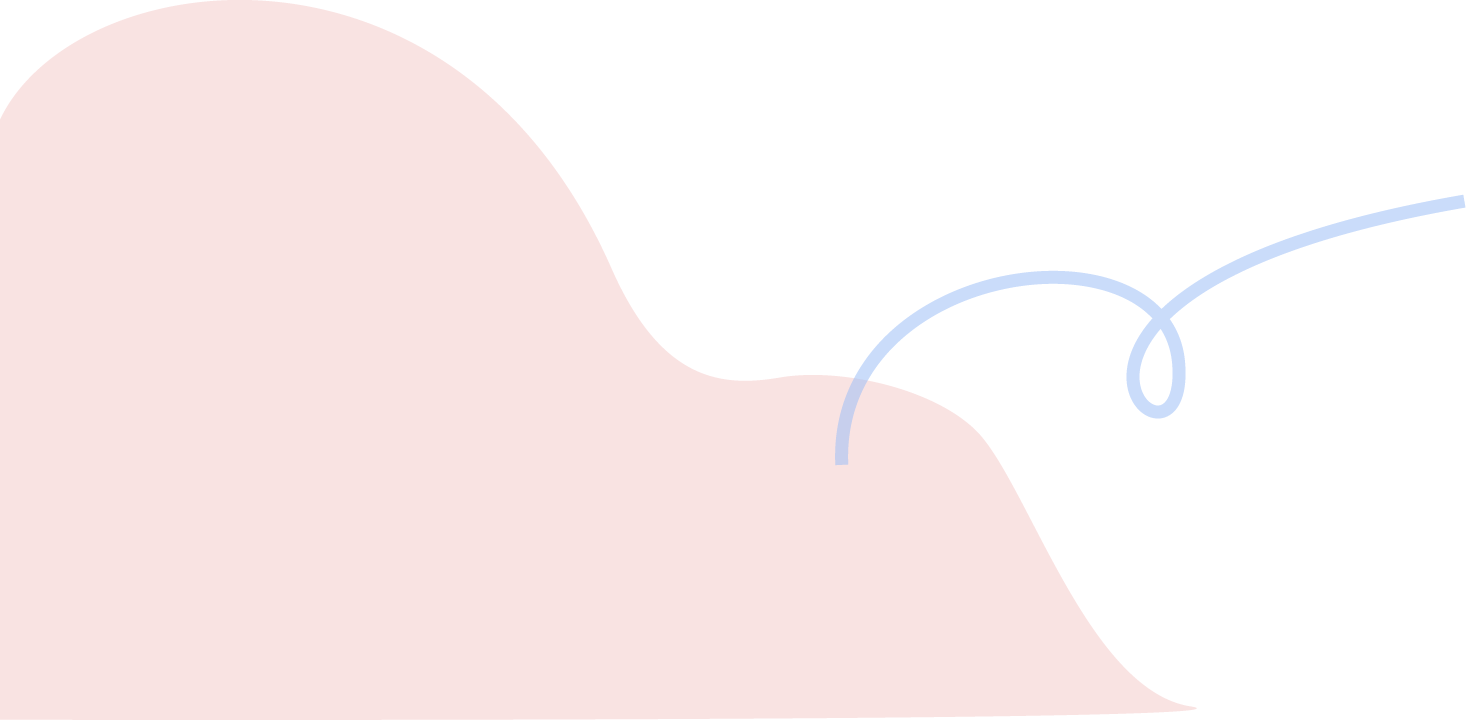
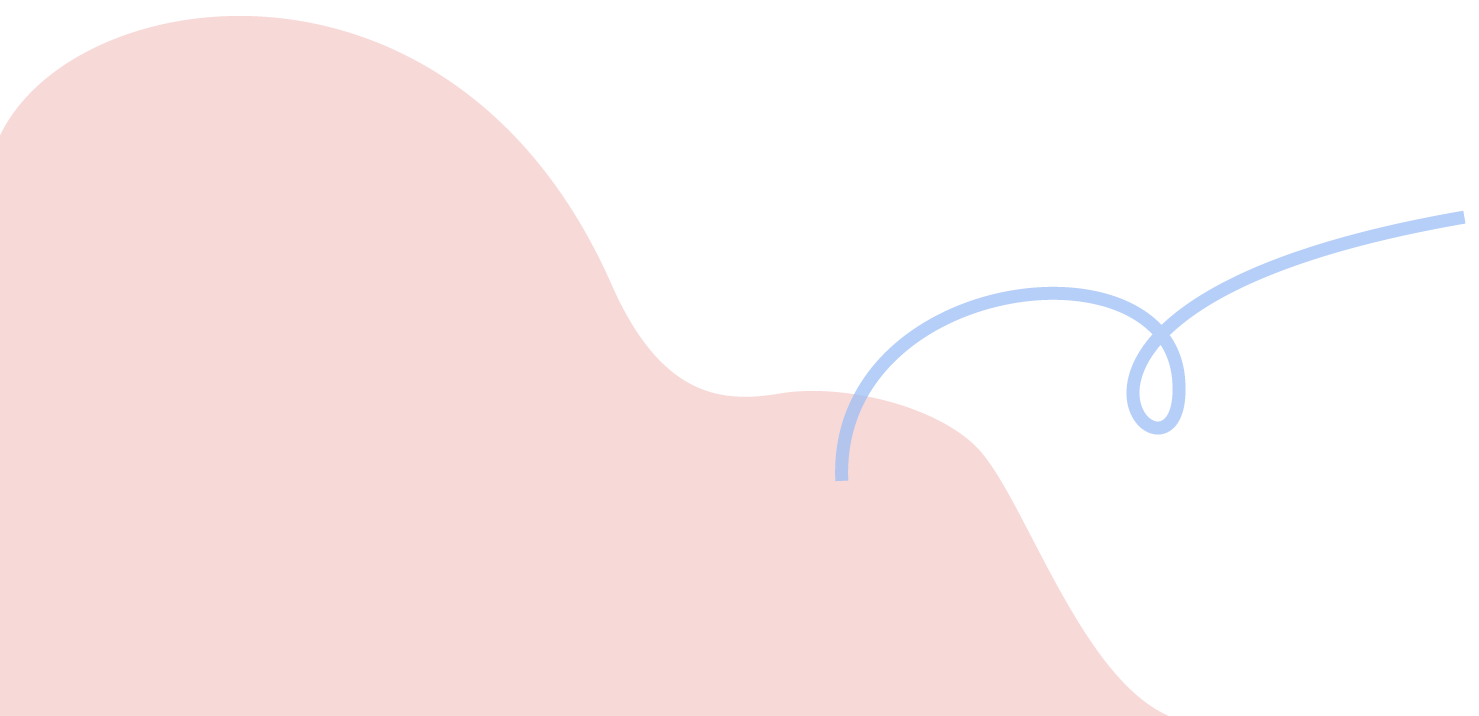
add loading and change image bottom

diff --git a/src/pages/vets/VetsList.js b/src/pages/vets/VetsList.js
@@ -5,9 +5,11 @@ import api from "../../apis/api";
 import { useEffect, useState } from "react";
 import Navbar from "../../components/navbar/Navbar";
 import { useParams } from "react-router-dom";
+import Loading from "../../components/Loading";
 
 function VetsList() {
   const [userData, setUserData] = useState([]);
+  const [loading, setLoading] = useState(true);
 
   const params = useParams();
 
@@ -15,13 +17,13 @@ function VetsList() {
     async function fetchUser() {
       try {
         const response = await api.get(`/vet/list`);
- 
+
         const userDataFilter = response.data.filter((currentVet) => {
           return currentVet.specialties.includes(params.specialties);
-        })
+        });
 
-        setUserData([ ...userDataFilter ]);
-        
+        setUserData([...userDataFilter]);
+        setTimeout(() => setLoading(false), 1000);
       } catch (err) {
         console.error(err);
       }
@@ -29,61 +31,72 @@ function VetsList() {
     fetchUser();
   }, [params.specialties]);
 
-
-
   return (
-    <div className="pb-20">
-      <section className="mt-4 flex items-center justify-between mr-8 ml-8">
-        <h1>Veterinários</h1>
-      </section>
+    <>
+      {loading ? (
+        <Loading />
+      ) : (
+        <div className="pb-20">
+          <section className="mt-4 flex items-center justify-between mr-8 ml-8">
+            <h1>Veterinários</h1>
+          </section>
 
-      <div className="ml-12 paw-container-right">
-        <img alt="pata" className="paw-medium" src={pawImg} />
-      </div>
+          <div className="ml-12 paw-container-right">
+            <img alt="pata" className="paw-medium" src={pawImg} />
+          </div>
 
-      {userData.map((currentVet) => {
-        return (
-          <div key={currentVet._id} className="has-background-white card-container mb-4">
-            <div className="card-content">
-              <div className="media">
-                <div className="media-left">
-                  <div className="flex-shrink-0">
-                    <img
-                      className="h-10 w-10 rounded-full"
-                      src={currentVet.avatarUrl}
-                      alt={currentVet.name}
-                    />
+          {userData.map((currentVet) => {
+            return (
+              <div
+                key={currentVet._id}
+                className="has-background-white card-container mb-4"
+              >
+                <div className="card-content">
+                  <div className="media">
+                    <div className="media-left">
+                      <div className="flex-shrink-0">
+                        <img
+                          className="h-10 w-10 rounded-full"
+                          src={currentVet.avatarUrl}
+                          alt={currentVet.name}
+                        />
+                      </div>
+                    </div>
+                    <div className="media-content">
+                      <p className="title is-4">{currentVet.name}</p>
+                      <p className="subtitle is-6 mb-2">
+                        CRMV: {currentVet.crmv}
+                      </p>
+                      <p className="subtitle is-6">{currentVet.rating}</p>
+                    </div>
+                  </div>
+                  <div className="max-w-md w-full is-flex is-justify-content-center">
+                    <Link to="/schedule">
+                      <button className="mt-2 small-btn blue-btn">
+                        Escolher
+                      </button>
+                    </Link>
                   </div>
                 </div>
-                <div className="media-content">
-                  <p className="title is-4">{currentVet.name}</p>
-                  <p className="subtitle is-6 mb-2">CRMV: {currentVet.crmv}</p>
-                  <p className="subtitle is-6">{currentVet.rating}</p>
-                </div>
               </div>
-              <div className="max-w-md w-full is-flex is-justify-content-center">
-                <Link to="/schedule">
-                  <button className="mt-2 small-btn blue-btn">Escolher</button>
-                </Link>
-              </div>
-            </div>
+            );
+          })}
+
+          <div className="ml-5 pt-1 paw-container-left">
+            <img alt="pata" className="paw-medium" src={pawImg} />
           </div>
-        );
-      })}
 
-      <div className="ml-5 pt-1 paw-container-left">
-        <img alt="pata" className="paw-medium" src={pawImg} />
-      </div>
-
-      <div className="flex items-center justify-center">
-        <img
-          alt="imagem inferior"
-          className="img-bottom pt-0 pb-20 sm:px-6 lg:px-8"
-          src={telaVerdeRosa}
-        />
-      </div>
-      <Navbar/>
-    </div>
+          <div className="flex items-center justify-center">
+            <img
+              alt="imagem inferior"
+              className="img-bottom pt-0 pb-20 sm:px-6 lg:px-8"
+              src={telaVerdeRosa}
+            />
+          </div>
+          <Navbar />
+        </div>
+      )}
+    </>
   );
 }
 

diff --git a/src/pages/dashboard/Dashboard.js b/src/pages/dashboard/Dashboard.js
@@ -1,5 +1,3 @@
-/** @format */
-
 import { Link } from "react-router-dom";
 import api from "../../apis/api";
 import { useEffect, useState } from "react";
@@ -8,8 +6,10 @@ import addIcon from "../../assets/add-icon.png";
 import telaBegeAzul from "../../assets/tela-bege-azul.png";
 import pawImg from "../../assets/pata.png";
 import Navbar from "../../components/navbar/Navbar";
+import Loading from "../../components/Loading";
 
 function Dashboard() {
+  const [loading, setLoading] = useState(true);
   const [userData, setUserData] = useState({
     name: "",
     role: "",
@@ -29,6 +29,7 @@ function Dashboard() {
         const response = await api.get(`/user/profile`);
 
         setUserData({ ...response.data });
+        setTimeout(() => setLoading(false), 1000)
       } catch (err) {
         console.error(err);
       }
@@ -50,7 +51,8 @@ function Dashboard() {
   // }, []);
 
   return (
-    <div>
+    <>
+    {loading ? <Loading/> : <div>
       <section className="mt-4 flex items-center justify-between mr-8 ml-8">
         <h1>Olá, {userData.name}</h1>
         <div className="flex-shrink-0">
@@ -122,7 +124,9 @@ function Dashboard() {
         />
       </div>
       <Navbar/>
-    </div>
+    </div>}
+    
+    </>
   );
 }
 

diff --git a/src/components/Loading.js b/src/components/Loading.js
@@ -1,0 +1,19 @@
+import Lottie from "react-lottie";
+import * as loadingAnimation from '../assets/animation/65014-dog-walking.json'
+
+
+function Loading() {
+    const defaultOptions = {
+        loop: true,
+        autoplay: true,
+        animationData: loadingAnimation.default,
+        rendererSettings: {
+          preserveAspectRatio: 'xMidYMid slice'
+        }
+      }
+
+    return <Lottie className="lottie-player" options={defaultOptions} height={200} width={200}/>
+}
+
+
+export default Loading;

diff --git a/src/pages/animal/AnimalCreate.js b/src/pages/animal/AnimalCreate.js
@@ -1,7 +1,3 @@
-/** @format */
-
-//  @format
-
 import api from "../../apis/api";
 import { useState } from "react";
 import { useNavigate } from "react-router-dom";
